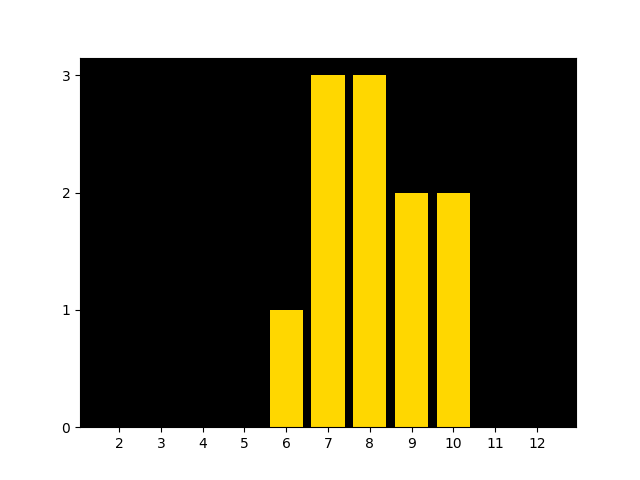
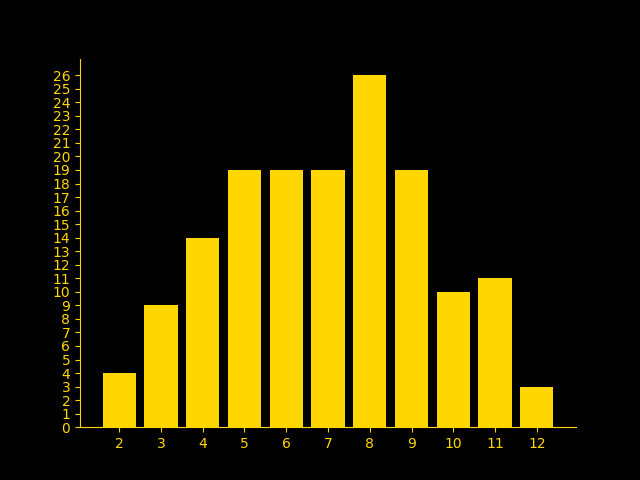
Initial working version of displayed dice history is now live.

diff --git a/guiprojectfunctions.py b/guiprojectfunctions.py
@@ -3,7 +3,6 @@ import random
 import matplotlib.pyplot as plt
 import os
 
-#Create function to print dice roll result
 def rollresults(dicelist, dicetotal, dicetotaltext, dicerollstext):
     """Function to format text display of the results of the dice roll"""
     
@@ -19,35 +18,44 @@ def rollresults(dicelist, dicetotal, dicetotaltext, dicerollstext):
 
 def graphresults(minresult, maxresult, resultdict):
     """Function to graph current results of dicerolls"""
+    
+    #Create list of current range of possible dice outcomes, 
+    # and a list of actual number of rolls of each dice possible outcome that has occurred.
     possiblerange = []
-    actualoutcome = []
+    actualoutcomes = []
     maxrolled = 0
-    outcomerange = []
 
     for x in range(minresult, maxresult + 1):
         possiblerange.append(x)
         if x in resultdict.keys():
-            actualoutcome.append(resultdict[x])
+            actualoutcomes.append(resultdict[x])
             if resultdict[x] > maxrolled:
                 maxrolled = resultdict[x]
         else:
-            actualoutcome.append(0)
+            actualoutcomes.append(0)
     
+    #Create a list up to highest number of any result rolled for use with Y ticks in graph.
+    outcomerange = []
     for x in range(0, maxrolled + 1):
         outcomerange.append(x)
     
+    #Create, format, and save figure.
     fig, ax = plt.subplots()
-    bargraph = plt.bar(x=possiblerange, height=actualoutcome, tick_label=possiblerange, color='gold')
+    bargraph = plt.bar(x=possiblerange, height=actualoutcomes, tick_label=possiblerange, color='gold')
+    
     plt.yticks(outcomerange)
     ax.tick_params(axis='x', colors='gold')    
     ax.tick_params(axis='y', colors='gold')
     ax.spines['left'].set_color('gold')       
     ax.spines['bottom'].set_color('gold')    
     ax.set_facecolor('black')
+    
     filename = os.path.dirname(__file__) + '//rollhistory'
-    plt.savefig(fname=filename, facecolor='black')
 
-#Create function to roll the dice!
+    plt.savefig(fname=filename, facecolor='black')
+    plt.close('all')
+
+#Create function to roll the dice (this doubles as the "main" function, and incorporates the others)
 def whaleback(dicenum, dicesides, resultdict, dicetotaltext, dicerollstext):
     """Function to calculate dice roll and log results"""
     dicetotal = 0
@@ -84,4 +92,6 @@ def whaleback(dicenum, dicesides, resultdict, dicetotaltext, dicerollstext):
 
     #Graph Results
     graphresults(minresult=minresult, maxresult=maxresult, resultdict=resultdict)
+
+    #Reset Canvas
     

diff --git a/GUIproject.py b/GUIproject.py
@@ -50,11 +50,14 @@ resultdict = {}
 rollthedice = tk.Button(canvas, 
                         text='Roll the Dice!', 
                         font=40, 
-                        command=lambda: whaleback(dicenum=get_dicenum, 
+                        command=lambda: [clearpic(),
+                                        whaleback(dicenum=get_dicenum, 
                                                 dicesides=get_sidenum, 
                                                 resultdict=resultdict, 
                                                 dicetotaltext=dicetotaltext, 
-                                                dicerollstext=dicerollstext),
+                                                dicerollstext=dicerollstext), 
+                                        addpic(),
+                                        graphcanvas.create_image(300, 200, image=chartofrolls)],
                         bg='gold', 
                         fg='black')
 rollthedice.place(relheight=0.1, relwidth=0.4, relx=0.3, rely=0.05)
@@ -69,7 +72,7 @@ dicetotaltext.place(relheight=0.5, relwidth=1, relx=0, rely=0)
 dicerollstext= tk.Label(diceresultframe, bg='gold', fg='black', font=('Times', '16'), text='Individual Rolls: ')
 dicerollstext.place(relheight=0.5, relwidth=1, relx=0,rely=0.5)
 
-#Create a frame for a graph of roll history, and display the chart
+#Create a frame for a graph of roll history, and canvas used to display the chart
 graphframe = tk.Frame(canvas, bg='black')
 graphframe.place(relheight=0.55, relwidth=0.5, relx=0.25, rely=0.4)
 
@@ -81,11 +84,22 @@ def graph_resource_path(roll_path):
     """ Get absolute path to resource, works for dev and for PyInstaller """
     graph_path = os.path.dirname(__file__) + '\\rollhistory.png'
     return graph_path
-
 rollchart = graph_resource_path(roll_path)
-chartofrolls = tk.PhotoImage(file=rollchart)
+    
+chartofrolls = None
 
-graphcanvas.create_image(300, 200, image=chartofrolls)
+def clearpic():
+    chartofrolls = None
+
+def addpic():
+    global chartofrolls
+    roll_path = '\\rollhistory.png'
+    def graph_resource_path(roll_path):
+        """ Get absolute path to resource, works for dev and for PyInstaller """
+        graph_path = os.path.dirname(__file__) + '\\rollhistory.png'
+        return graph_path
+    rollchart = graph_resource_path(roll_path)
+    chartofrolls = tk.PhotoImage(file=rollchart)
 
 #Closing procedure
 root.protocol("WM_DELETE_WINDOW", root.quit)
